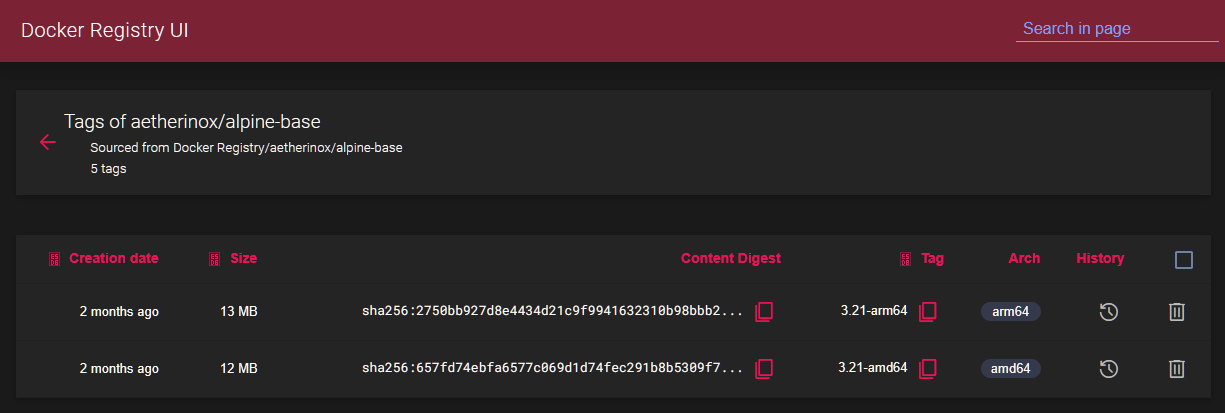
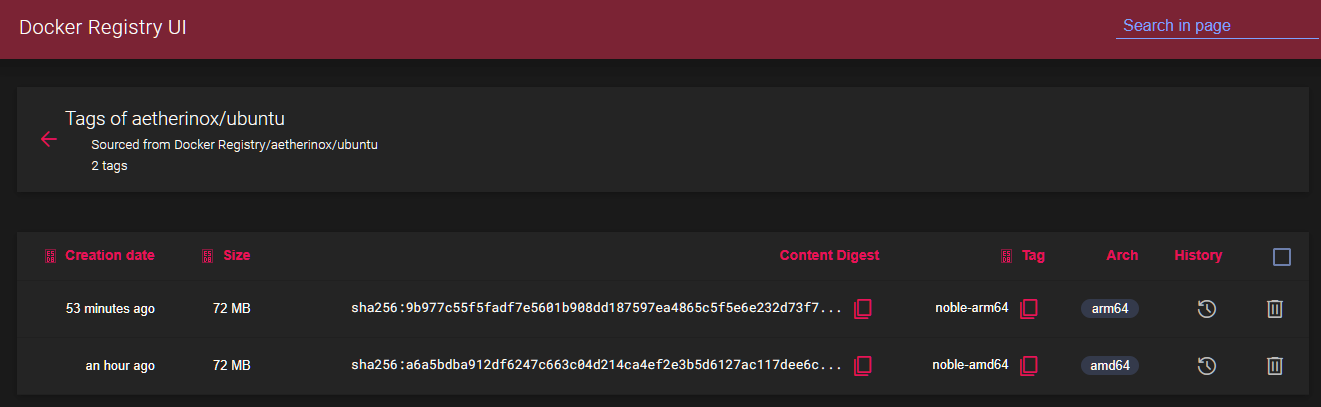
docs(readme): update

diff --git a/README.md b/README.md
@@ -925,7 +925,7 @@ If you are building the **stable release** images; you should see the following:
 
 <br />
 
-<p align="center"><img style="width: 80%;text-align: center;" src="docs/img/core/01.png"><br><sub><sup><b>Registry v2:</b> Newly created <code>amd64</code> and <code>arm64</code> images</sup></sub></p>
+<p align="center"><img style="width: 80%;text-align: center;" src="docs/img/core/01.png"><br><sub><sup><b>Registry v2:</b> Newly created <code>amd64</code> and <code>arm64</code> images for <code>Stable release</code></sup></sub></p>
 
 <br />
 
@@ -936,13 +936,13 @@ $ docker buildx imagetools inspect ghcr.io/aetherinox/ubuntu:noble-amd64
 
 Name:      ghcr.io/aetherinox/ubuntu:noble-amd64
 MediaType: application/vnd.docker.distribution.manifest.v2+json
-Digest:    sha256:657fd74ebfa6577c069d1d74fec291b8b5309f762e7ad2d0d14b51de64a841b8
+Digest:    sha256:a6a5bdba912df6247c663c04d214ca4ef2e3b5d6127ac117dee6c28d9b5c6f35
 
 $ docker buildx imagetools inspect ghcr.io/aetherinox/ubuntu:noble-arm64
 
 Name:      ghcr.io/aetherinox/ubuntu:noble-arm64
 MediaType: application/vnd.docker.distribution.manifest.v2+json
-Digest:    sha256:2750bb927d8e4434d21c9f9941632310b98bbb2729389af236888ebbc4d75dda
+Digest:    sha256:9b977c55f5fadf7e5601b908dd187597ea4865c5f5e6e232d73f7053d6477ae3
 ```
 
 <br />
@@ -954,7 +954,7 @@ If you are building the **development release** images; you should see the follo
 
 <br />
 
-<p align="center"><img style="width: 70%;text-align: center;" src="docs/img/core/04.png"><br><sub><sup><b>Registry v2:</b> Newly created <code>noble-development-amd64</code> and <code>noble-development-arm64</code> images</sup></sub></p>
+<p align="center"><img style="width: 80%;text-align: center;" src="docs/img/core/02.png"><br><sub><sup><b>Registry v2:</b> Newly created <code>amd64</code> and <code>arm64</code> images for <code>Development</code> release</sup></sub></p>
 
 <br />
 
@@ -967,14 +967,20 @@ $ docker buildx imagetools inspect ghcr.io/aetherinox/ubuntu:noble-development-a
 
 Name:      ghcr.io/aetherinox/ubuntu:noble-development-amd64
 MediaType: application/vnd.docker.distribution.manifest.v2+json
-Digest:    sha256:8f36385a28c8f6eb7394d903c9a7a2765b06f94266b32628389ee9e3e3d7e69d
+Digest:    sha256:d3157db4bc9190e7926f39820a373bf04379704382de741fae272771eb587c45
 
 $ docker buildx imagetools inspect ghcr.io/aetherinox/ubuntu:noble-development-arm64
 
 Name:      ghcr.io/aetherinox/ubuntu:noble-development-arm64
 MediaType: application/vnd.docker.distribution.manifest.v2+json
-Digest:    sha256:c719ccb034946e3f0625003f25026d001768794e38a1ba8aafc9146291d548c5
+Digest:    sha256:2819d07ccce30dcad5729b66fa0268660b7da9e304ef75694e08953ca5c1a31e
 ```
+
+<br />
+
+If you opted to build both the **stable** and **development** releases; you should see:
+
+<p align="center"><img style="width: 80%;text-align: center;" src="docs/img/core/03.png"><br><sub><sup><b>Registry v2:</b> Newly created <code>amd64</code> and <code>arm64</code> images for both <code>Stable</code> and <code>Development</code> releases</sup></sub></p>
 
 <br />
 <br />
@@ -987,9 +993,13 @@ Digest:    sha256:c719ccb034946e3f0625003f25026d001768794e38a1ba8aafc9146291d548
 > ```shell
 > $ docker images --all --no-trunc | grep aetherinox
 > 
-> ghcr.io/aetherinox/ubuntu   noble-arm64        sha256:bb425429e98ab467fd91474701da2e5c0a7cb4a5f218a710d950eb0ff595486c   3 minutes ago   38.8MB
+> ghcr.io/aetherinox/ubuntu   noble-amd64                   sha256:d359e7dc422bf0a80ab40f6ff140da72a2d16f69a352e2e9c76c324f9e8bc50e   3 minutes ago   206MB
 > 
-> ghcr.io/aetherinox/ubuntu   noble-amd64        sha256:dea4cb91379dba289d8d3e8842d4fb7b7857faa7f3d02d5b9a043a1ee58e61d7   4 minutes ago   27.3MB
+> ghcr.io/aetherinox/ubuntu   noble-arm64                   sha256:d497b9ea99e7d0dafc48fb29cb041fcddb952103d14171086844c3f45dc9999b   4 minutes ago   238MB
+> 
+> ghcr.io/aetherinox/ubuntu   noble-development-amd64       sha256:f120bf8425df79d36fa743472aec03edde64864d2a59dd256b6ee258b62c8865   4 minutes ago   206MB
+> 
+> ghcr.io/aetherinox/ubuntu   noble-development-arm64       sha256:21e6ed47020755e4627d93d201af3309b93bd4c6a0e6250e17f19d4b15e4492f   5 minutes ago   238MB
 > ```
 >
 > To get the correct sha256 digest, use:
@@ -1018,16 +1028,26 @@ docker buildx imagetools create \
   --tag ghcr.io/aetherinox/ubuntu:24.04 \
   --tag ghcr.io/aetherinox/ubuntu:noble \
   --tag ghcr.io/aetherinox/ubuntu:noble-YYYYMMDD \
+  sha256:a6a5bdba912df6247c663c04d214ca4ef2e3b5d6127ac117dee6c28d9b5c6f35 \
+  sha256:9b977c55f5fadf7e5601b908dd187597ea4865c5f5e6e232d73f7053d6477ae3
 
-  sha256:657fd74ebfa6577c069d1d74fec291b8b5309f762e7ad2d0d14b51de64a841b8 \
-  sha256:2750bb927d8e4434d21c9f9941632310b98bbb2729389af236888ebbc4d75dda
-
-[+] Building 0.2s (4/4) FINISHED                                                                                                                                                                                                      
+# OUTPUT
+[+] Building 0.3s (4/4) FINISHED
  => [internal] pushing ghcr.io/aetherinox/ubuntu:latest               0.2s
  => [internal] pushing ghcr.io/aetherinox/ubuntu:24.04                0.2s
  => [internal] pushing ghcr.io/aetherinox/ubuntu:noble                0.2s
  => [internal] pushing ghcr.io/aetherinox/ubuntu:noble-YYYYMMDD       0.2s
 ```
+
+<br />
+
+The command above will give you the following images:
+
+<p align="center"><img style="width: 80%;text-align: center;" src="docs/img/core/04.png"><br><sub><sup><b>Registry v2:</b> merged <code>amd64</code> and <code>arm64</code> for <code>Stable</code> release</sup></sub></p>
+
+<br />
+
+The image above will give you one image for each of the `--tag` you specified, and it will list both arcitectures for each image.
 
 <br />
 
@@ -1040,10 +1060,11 @@ For the **development** releases, use:
 
 docker buildx imagetools create \
   --tag ghcr.io/aetherinox/ubuntu:noble-development \
-  sha256:2750bb927d8e4434d21c9f9941632310b98bbb2729389af236888ebbc4d75dda \
-  sha256:657fd74ebfa6577c069d1d74fec291b8b5309f762e7ad2d0d14b51de64a841b8
+  sha256:d3157db4bc9190e7926f39820a373bf04379704382de741fae272771eb587c45 \
+  sha256:2819d07ccce30dcad5729b66fa0268660b7da9e304ef75694e08953ca5c1a31e
 
-[+] Building 0.1s (1/1) FINISHED
+# OUTPUT
+[+] Building 0.3s (1/1) FINISHED
  => [internal] pushing ghcr.io/aetherinox/ubuntu:noble-development   0.1s
 ```
 
@@ -1051,6 +1072,16 @@ docker buildx imagetools create \
 
 > [!NOTE]
 > Compared to the **stable** release which has 4 tags; the **development** release only has one tag.
+
+<br />
+
+The command above will output the following image:
+
+<p align="center"><img style="width: 80%;text-align: center;" src="docs/img/core/05.png"><br><sub><sup><b>Registry v2:</b> merged <code>amd64</code> and <code>arm64</code> for <code>Development</code> release</sup></sub></p>
+
+<br />
+
+The image above will give you **one image**, since we only specified one `--tag`, and it will list both arcitectures for each image.
 
 <br />
 
@@ -1077,8 +1108,8 @@ docker manifest create ghcr.io/aetherinox/ubuntu:latest \
 
 # Example 2 (using sha256 hash)
 docker manifest create ghcr.io/aetherinox/ubuntu:latest \
-    --amend ghcr.io/aetherinox/ubuntu@sha256:657fd74ebfa6577c069d1d74fec291b8b5309f762e7ad2d0d14b51de64a841b8 \
-    --amend ghcr.io/aetherinox/ubuntu@sha256:2750bb927d8e4434d21c9f9941632310b98bbb2729389af236888ebbc4d75dda
+    --amend ghcr.io/aetherinox/ubuntu@sha256:a6a5bdba912df6247c663c04d214ca4ef2e3b5d6127ac117dee6c28d9b5c6f35 \
+    --amend ghcr.io/aetherinox/ubuntu@sha256:9b977c55f5fadf7e5601b908dd187597ea4865c5f5e6e232d73f7053d6477ae3
 
 # Push manifest changes to registry
 docker manifest push ghcr.io/aetherinox/ubuntu:latest
@@ -1095,7 +1126,7 @@ If you go back to your registry; you should now see multiple new entries, all wi
 
 If you are pushing to Github's GHCR; the interface will look different, as Github merges all tags into a single listing, instead of Registry v2 listing each tag on its own:
 
-<p align="center"><img style="width: 80%;text-align: center;" src="docs/img/core/03.png"><br><sub><sup><b>Registry v2:</b> Newly created <code>amd64</code> and <code>arm64</code> images, and merged containers with both architectures</sup></sub></p>
+<p align="center"><img style="width: 80%;text-align: center;" src="docs/img/core/06.png"><br><sub><sup><b>Registry v2:</b> Newly created <code>amd64</code> and <code>arm64</code> images, and merged containers with both architectures</sup></sub></p>
 
 <br />
 
